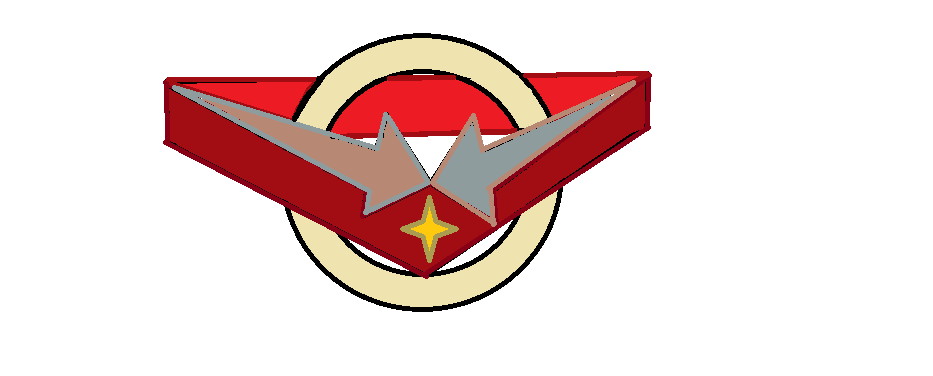
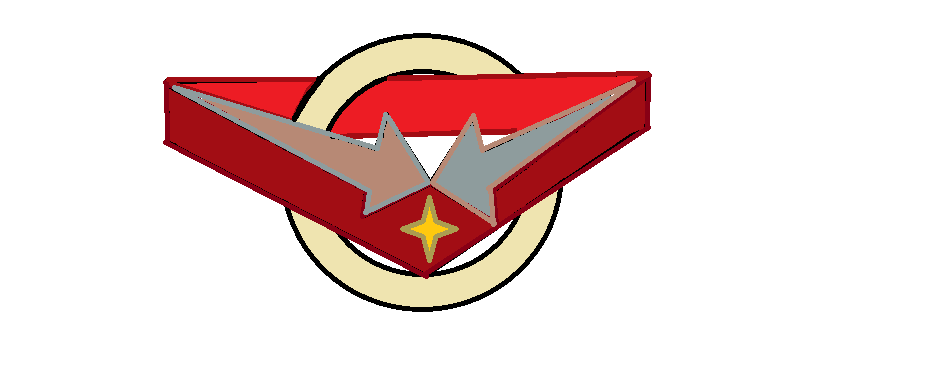
.

Changed region(s): [[0.4662, 0.1755, 0.5906, 0.3511]]

diff --git a/Actividad Tarea.html b/Actividad Tarea.html
@@ -35,6 +35,25 @@ function poligono(cd,colorBorde,colorRelleno,grosorLinea){
   ctx.lineTo(cd[4],cd[5]);
   ctx.lineTo(cd[6],cd[7]);
   ctx.lineTo(cd[8],cd[9]);
+  ctx.lineTo(cd[10],cd[11]);
+  ctx.closePath();
+  ctx.stroke();
+  ctx.fill();
+  }
+
+function estrella(cd,colorBorde,colorRelleno,grosorLinea){
+  ctx.beginPath();
+  ctx.strokeStyle = colorBorde;
+  ctx.fillStyle = colorRelleno;
+  ctx.lineWidth = grosorLinea;
+  ctx.moveTo(cd[0],cd[1]);
+  ctx.lineTo(cd[2],cd[3]);
+  ctx.lineTo(cd[4],cd[5]);
+  ctx.lineTo(cd[6],cd[7]);
+  ctx.lineTo(cd[8],cd[9]);
+  ctx.lineTo(cd[10],cd[11]);
+  ctx.lineTo(cd[12],cd[13]);
+  ctx.lineTo(cd[14],cd[15]);
   ctx.closePath();
   ctx.stroke();
   ctx.fill();
@@ -51,13 +70,27 @@ function poligono(cd,colorBorde,colorRelleno,grosorLinea){
 
   var arrr1 = [166,81,166,143,645,143,645,81];
   var arrp1 = [166,81,166,143,421,277,645,143,645,81,421,184];
+  var arrf1 = [166,81,378,150,386,114,421,182,364,216,370,193];
+  var arrf2 = [649,81,474,150,468,114,421,182,481,216,476,193];
+  var arre = [420,197,426,223,450,231,426,239,420,265,413,239,392,231,414,223];
+  var arrr2 = [404,81,404,143,645,143,645,81];
 
   rectangulo(arrr1,'rgba(162,13,20)','rgba(237,28,36)',5);
   circulo(421,183,150,'rgba(0,0,0)','rgba(239,228,176)',5);
   circulo(421,183,110,'rgba(0,0,0)','rgba(255,255,255)',5);
-  poligono(arrp1,'rgba(0,162,232)','rgba(0,162,232)');
-  recorte(421,183,110);
+  poligono(arrp1,'rgba(136,0,21)','rgba(162,13,20)',5);
+  poligono(arrf1,'rgba(142,156,157)','rgba(183,137,117)',5);
+  poligono(arrf2,'rgba(183,137,117)','rgba(142,156,157)',5);
+  estrella(arre,'rgba(171,157,80)','rgba(255,201,14)',5);
+  recorte(421,183,155)
+  rectangulo(arrr2,'rgba(162,13,20)','rgba(237,28,36)',5);
+  poligono(arrp1,'rgba(136,0,21)','rgba(162,13,20)',5);
+  poligono(arrf1,'rgba(142,156,157)','rgba(183,137,117)',5);
+  poligono(arrf2,'rgba(183,137,117)','rgba(142,156,157)',5);
+  recorte(421,183,110)
   rectangulo(arrr1,'rgba(162,13,20)','rgba(237,28,36)',5);
-
-
+  poligono(arrp1,'rgba(136,0,21)','rgba(162,13,20)',5);
+  poligono(arrf1,'rgba(142,156,157)','rgba(183,137,117)',5);
+  poligono(arrf2,'rgba(183,137,117)','rgba(142,156,157)',5);
+  estrella(arre,'rgba(171,157,80)','rgba(255,201,14)',5);
 </script>

diff --git a/Actividad en Clase.html b/Actividad en Clase.html
@@ -46,6 +46,15 @@
     ctx.clip();
     }
 
+    function recorteh(arr){
+    ctx.beginPath();
+    ctx.moveTo(arr[0],arr[1]);
+    ctx.lineTo(arr[2],arr[3]);
+    ctx.lineTo(arr[4],arr[5]);
+    ctx.lineTo(arr[6],arr[7]);
+    ctx.clip();
+    }
+
     var c = document.getElementById('tablero')
     var ctx = c.getContext('2d')
  
@@ -59,9 +68,10 @@
     rectangulo(arrr1,'rgba(181,230,29)','rgba(181,230,29)');
     circulo(184,157,132,'rgba(237,28,36)','rgba(237,28,36)');
     circulo(221,164,85,'rgba(255,255,255)','rgba(255,255,255)');
-    recorte(221,164,85);
+    ctx.clip();
     hexagono(arrh1,'rgba(0,162,232)','rgba(0,162,232)');
     hexagono(arrh2,'rgba(255,255,255)','rgba(255,255,255)');
     rectangulo(arrr1,'rgba(181,230,29)','rgba(181,230,29)');
+
 
 </script>
